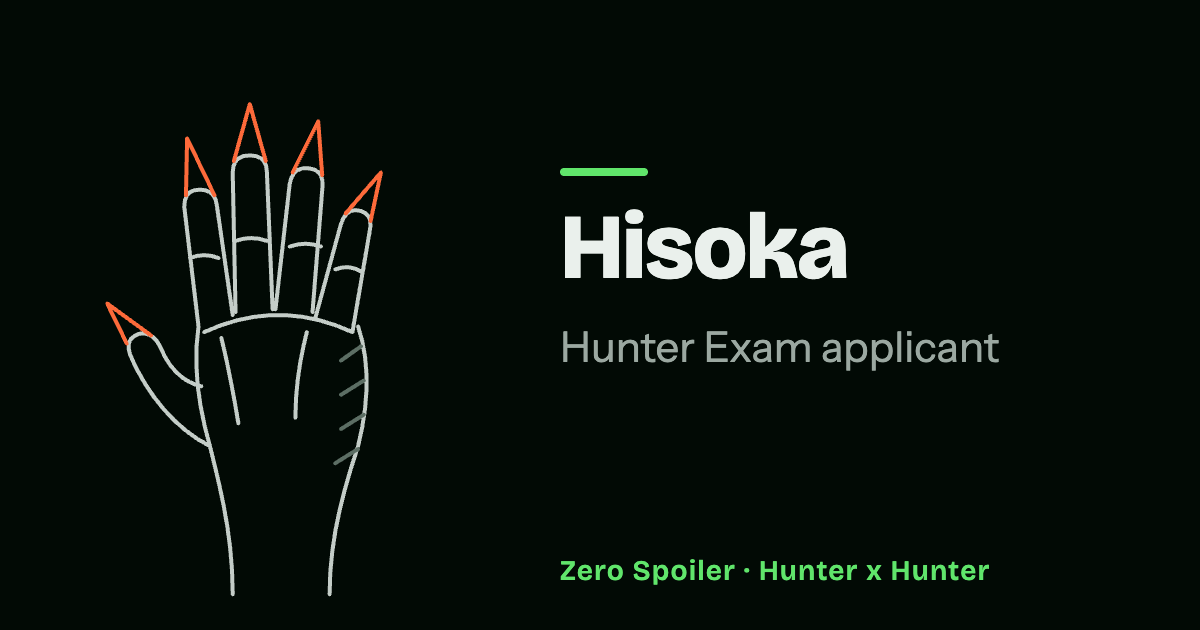
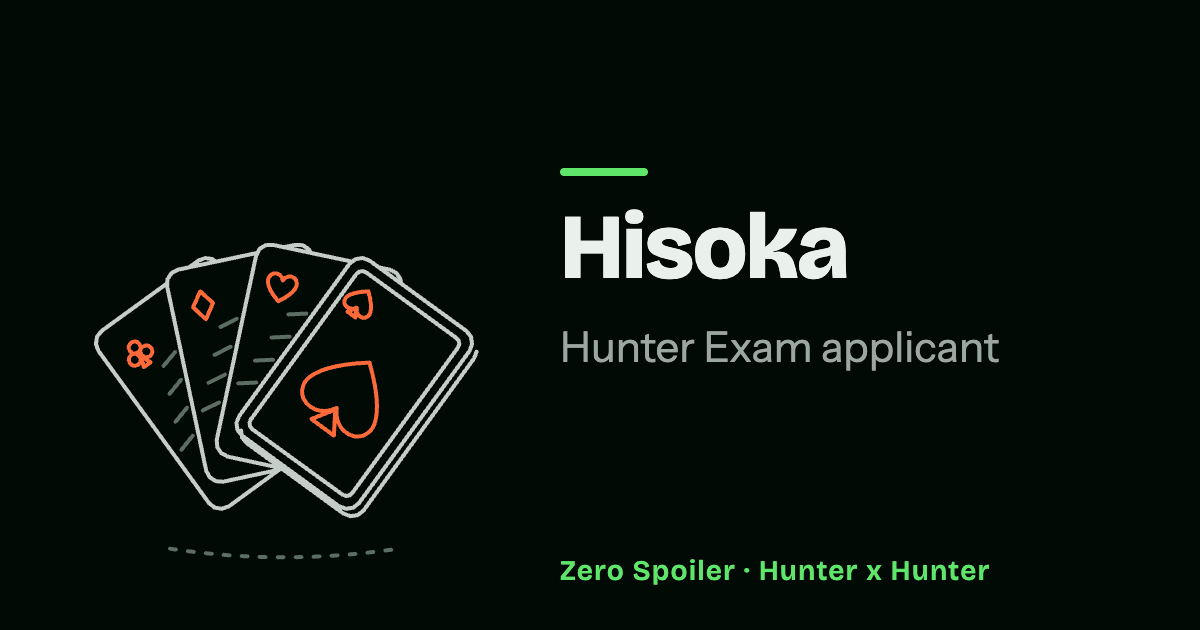
feat(hisoka): draw Hisoka as a fan of playing cards (#1199)

Changed region(s): [[0.0617, 0.1508, 0.4008, 0.9349]]

diff --git a/src/data/series/hunter-x-hunter/art/index.ts b/src/data/series/hunter-x-hunter/art/index.ts
@@ -166,6 +166,51 @@ const LEORIO_CASE: Stroke[] = [
 const LEORIO_SHADOW = shadow(78, 174, 58)
 
 /**
+ * The suits of Hisoka's four cards in the record's tint: clubs, diamonds and
+ * hearts in the corner of the three cards behind, and spades in the corner
+ * and large in the middle of the card in front.
+ */
+const HISOKA_SUITS: Stroke = {
+  d: 'M25.9 112.6 C25.2 111.7 25.4 110.4 26.4 109.7 C27.3 109 28.6 109.2 29.3 110.2 C30 111.1 29.8 112.4 28.8 113.1 C27.9 113.8 26.6 113.6 25.9 112.6 Z M25.9 116.9 C25.3 116 25.5 114.7 26.4 114 C27.3 113.3 28.7 113.5 29.3 114.5 C30 115.4 29.8 116.7 28.9 117.4 C27.9 118.1 26.6 117.9 25.9 116.9 Z M30 114 C29.3 113.1 29.5 111.7 30.4 111.1 C31.4 110.4 32.7 110.6 33.4 111.5 C34.1 112.5 33.9 113.8 32.9 114.5 C32 115.1 30.7 114.9 30 114 Z M29.8 114.4 L30.8 118.3 L33.2 116.6 Z M50.6 91.7 L55.1 95.8 L52.6 101.5 L48.1 97.3 Z M78 95.2 C74.3 90.9 73.9 88.2 74.7 86.8 C75.7 84.5 79.2 85 79.6 87.9 C81.1 85.4 84.5 86.4 84.5 88.9 C84.6 90.5 83.1 92.7 78 95.2 Z M109.6 91.7 C103.9 91.9 101.6 93.4 101.3 94.7 C100.5 96.6 103 98.7 105.5 97.4 C105 100.2 107.8 101.9 109.4 100.5 C110.5 99.8 111.2 97.2 109.6 91.7 Z M105.3 97.6 L102.3 98.8 L105.1 100.9 Z M110 116.7 C94 117.3 87.6 121.3 86.7 124.9 C84.6 130.3 91.5 136.2 98.5 132.6 C97.2 140.3 104.9 145.1 109.4 141.4 C112.6 139.4 114.4 132.1 110 116.7 Z M98 133.2 L89.6 136.5 L97.5 142.3 Z',
+  role: 'accent',
+}
+
+/**
+ * Hisoka's four playing cards fanned from one corner, each turned 24° from
+ * the next: only the part of a card the one above leaves bare is drawn. The
+ * card in front has the inner frame of its white border and, along its
+ * right and lower edges, its thickness; each card throws a hatched shade on
+ * the one behind. No pips but the suits, no lettering.
+ */
+const HISOKA_FAN: Stroke[] = [
+  {
+    d: 'M46.7 83.3 L50 80.9 L52.4 80 L54.9 80.4 L56 81.3 M78.3 154.3 L60.7 167.1 L58.2 168 L55.7 167.6 L53.7 166 L14.9 112.6 L14 110.2 L14.4 107.6 L16 105.6 L39 88.9',
+  },
+  {
+    d: 'M80 76.2 L83.9 75.4 L86.5 75.5 L88.7 76.9 L89.3 78.2 M80 153.9 L58.6 158.5 L56 158.3 L53.9 156.9 L52.7 154.6 L39 90 L39.1 87.5 L40.5 85.3 L42.8 84.1 L70.7 78.2',
+  },
+  {
+    d: 'M113.3 83.3 L117.2 84.1 L119.5 85.3 L120.9 87.5 L121 88.9 M81.7 154.3 L60.3 149.7 L58 148.5 L56.6 146.4 L56.4 143.8 L70.2 79.2 L71.3 76.9 L73.5 75.5 L76.1 75.4 L104 81.3',
+  },
+  {
+    d: 'M144 105.6 L145.6 107.6 L146 110.2 L145.1 112.6 L106.3 166 L104.3 167.6 L101.8 168 L99.3 167.1 L65.4 142.4 L63.7 140.4 L63.3 137.9 L64.3 135.4 L103 82 L105.1 80.4 L107.6 80 L110 80.9 Z',
+  },
+  {
+    d: 'M140.4 108 L141.3 109 L141.5 110.3 L141 111.5 L104 162.4 L103 163.3 L101.7 163.5 L100.5 163 L68.9 140.1 L68.1 139.1 L67.9 137.8 L68.4 136.6 L105.4 85.6 L106.4 84.8 L107.7 84.6 L108.9 85.1 Z',
+    role: 'soft',
+  },
+  {
+    d: 'M147.6 112.8 L146.7 115.2 L107.9 168.6 L105.9 170.2 L103.4 170.6 L100.9 169.7 L67 145 L65.3 143 L64.9 140.5',
+    role: 'soft',
+  },
+  HISOKA_SUITS,
+  {
+    d: 'M41.8 113 L37.7 117.9 M43.9 122.7 L39.8 127.7 M46 132.5 L41.9 137.5 M48 142.3 L44 147.3 M63.4 101.3 L57.7 104.2 M61.3 111.1 L55.6 114 M59.3 120.9 L53.5 123.8 M57.2 130.7 L51.5 133.5 M87.9 99.5 L81.5 99.8 M82 107.6 L75.6 107.9 M76.2 115.7 L69.8 116 M70.3 123.7 L63.9 124',
+    role: 'ambient',
+  },
+]
+
+/**
  * Every Hunter x Hunter line drawing, one per record, keyed by the record's
  * id, in the house style of One Piece's (`~/data/series/one-piece/art`): the
  * same box, pen and rules. The arcs, and the characters and places of the
@@ -743,41 +788,14 @@ export const DRAWINGS = {
     shadow(72, 164, 54),
   ],
 
-  // Hisoka's right hand from the back, the fingers a little spread and
-  // the long pointed nails in the record's tint: the applicant who wounds a
-  // man for bumping into him without apologizing, in episode 3 and chapter
-  // 5. No card: his cards first come out in the Milsy Wetlands, in chapter
-  // 8. No suit symbol, no face paint.
-  // Hands, not wrist bands: the wiki gives his long pointed nails and has no
-  // bands (owner: a hand may stand for him).
-  'hisoka': [
-    { d: 'M62 198 C62 178 58 162 54 146 M96 198 C96 180 100 164 106 146' },
-    { d: 'M54 146 C50 132 48 118 50 104 M106 146 C110 130 110 116 106 104' },
-    {
-      d: 'M50 104 L45 62 Q45 56 50.5 56 Q56 56 56.5 62 L62 100 M63 99 L62 50 Q62 44 68 44 Q74 44 74 50 L76 98 M77 98 L82 54 Q83 48 88.5 48.5 Q94 49 93.5 55 L90 99 M91 101 L100 68 Q102 62 107 63.5 Q111.5 65 110 71 L104 106',
-    },
-    {
-      d: 'M45.6 58 L46 38 L55.6 58 M62.4 46 L68 26 L73.6 46 M83 50 L92 32 L93.4 51 M101.6 64.4 L114 50 L110.4 67',
-      role: 'accent',
-    },
-    {
-      d: 'M54 146 C42 140 32 128 26 114 Q24 108 29.5 106.5 Q34 106 36.5 111 C40 120 46 124 51 125',
-    },
-    { d: 'M24.8 110 L18 96 L33.4 107.2', role: 'accent' },
-    { d: 'M52 106 Q78 94 104 106', role: 'soft' },
-    {
-      d: 'M47 80 q5 -2 10 0 M63 74 q5.5 -2 11 0 M82 76 q5.5 -2 11 0 M98 84 q5 -2 9.5 1',
-      role: 'soft',
-    },
-    {
-      d: 'M100 116 l7 -5 M100 128 l8 -5 M100 140 l8 -5 M98 152 l8 -5',
-      role: 'ambient',
-    },
-    {
-      d: 'M64 138 C62 126 60 116 58 108 M84 136 C84 124 86 114 88 106',
-      role: 'soft',
-    },
-  ],
+  // Hisoka's four playing cards fanned, the suits in the record's tint and
+  // the spade card in front: the applicant who wounds a man for bumping
+  // into him without apologizing, in episode 3 and chapter 5. His cards are
+  // what the Hunter Exam knows him by: he throws them in the Milsy Wetlands
+  // (episode 5, chapter 8) and builds a house of them on the airship
+  // (episode 7, chapter 13). Throwing cards is no Nen ability the story has
+  // shown yet. No lettering on the cards, no face paint.
+  'hisoka': [...HISOKA_FAN, shadow(80, 182, 40)],
 
   // Killua's skateboard, deck in the record's tint and the trucks beneath
   // it: he rides it through the exam tunnel in episode 4 and chapter 6.
@@ -1069,9 +1087,62 @@ export const DRAWINGS = {
 export type ArtId = keyof typeof DRAWINGS
 
 /**
+ * Hisoka's right hand from the back, with the long pointed nails: the
+ * wrist, the palm, the four fingers and their nails in the muted ink (the
+ * rubber he rebuilds them with), the thumb and its nail, the knuckles. The
+ * stage of his return mirrors it into his left hand, holding the fan.
+ */
+const HISOKA_REBUILT_HAND: Stroke[] = [
+  { d: 'M62 198 C62 178 58 162 54 146 M96 198 C96 180 100 164 106 146' },
+  { d: 'M54 146 C50 132 48 118 50 104 M106 146 C110 130 110 116 106 104' },
+  {
+    d: 'M50 104 L45 62 Q45 56 50.5 56 Q56 56 56.5 62 L62 100 M63 99 L62 50 Q62 44 68 44 Q74 44 74 50 L76 98 M77 98 L82 54 Q83 48 88.5 48.5 Q94 49 93.5 55 L90 99 M91 101 L100 68 Q102 62 107 63.5 Q111.5 65 110 71 L104 106',
+    role: 'ambient',
+  },
+  {
+    d: 'M45.6 58 L46 38 L55.6 58 M62.4 46 L68 26 L73.6 46 M83 50 L92 32 L93.4 51 M101.6 64.4 L114 50 L110.4 67',
+    role: 'ambient',
+  },
+  {
+    d: 'M54 146 C42 140 32 128 26 114 Q24 108 29.5 106.5 Q34 106 36.5 111 C40 120 46 124 51 125',
+  },
+  { d: 'M24.8 110 L18 96 L33.4 107.2', role: 'soft' },
+  { d: 'M52 106 Q78 94 104 106', role: 'soft' },
+]
+
+/**
+ * Hisoka's fan as his rebuilt left hand holds it: the same cards, suits and
+ * frame, with what the hand in front covers left out. No shade between the
+ * cards.
+ */
+const HISOKA_FAN_HELD: Stroke[] = [
+  {
+    d: 'M46.7 83.3 L50 80.9 L52.4 80 L54.9 80.4 L56 81.3 M68.8 161.2 L64.6 164.2 M55.8 167.7 L55.7 167.6 L53.7 166 L14.9 112.6 L14 110.2 L14.4 107.6 L16 105.6 L39 88.9',
+  },
+  {
+    d: 'M80 76.2 L83.9 75.4 L86.5 75.5 L88.7 76.9 L89.3 78.2 M56.3 158.3 L56 158.3 L53.9 156.9 L52.7 154.6 L39 90 L39.1 87.5 L40.5 85.3 L42.8 84.1 L70.7 78.2',
+  },
+  {
+    d: 'M113.3 83.3 L117.2 84.1 L119.5 85.3 L120.9 87.5 L121 88.9 M64.4 150.6 L61.3 149.9 M57.2 140.2 L70.2 79.2 L71.3 76.9 L73.5 75.5 L76.1 75.4 L104 81.3',
+  },
+  {
+    d: 'M67.6 130.8 L103 82 L105.1 80.4 L107.6 80 L110 80.9 L144 105.6 L145.6 107.6 L146 110.2 L145.1 112.6 L106.3 166 L104.3 167.6 L102.1 168 M97.4 165.7 L88.3 159.1 M73.7 148.4 L70.9 146.5',
+  },
+  {
+    d: 'M78.3 122.9 L105.4 85.6 L106.4 84.8 L107.7 84.6 L108.9 85.1 L140.4 108 L141.3 109 L141.5 110.3 L141 111.5 L105 161 M100.9 163.2 L100.5 163 L88.9 154.5 M82.7 150.1 L80.7 148.6 M73.9 143.6 L70.3 141.1 M69.1 135.6 L76.1 125.9',
+    role: 'soft',
+  },
+  {
+    d: 'M147.6 112.8 L146.7 115.2 L107.9 168.6 L105.9 170.2 L103.4 170.6 L101.3 169.8 M97.1 166.9 L88.2 160.4 M73.6 149.8 L71.1 148',
+    role: 'soft',
+  },
+  HISOKA_SUITS,
+]
+
+/**
  * The early-exam drawings that change with the story: the applicants Tonpa
- * points out who die later in the exam, and Kurapika's wooden swords, which
- * his chain replaces.
+ * points out who die later in the exam, Kurapika's wooden swords, which his
+ * chain replaces, and every later stage of Hisoka's cards, Kakin's included.
  */
 const hunterExamRedrawn: Redrawings = {
   kurapika: [
@@ -1142,6 +1213,41 @@ const hunterExamRedrawn: Redrawings = {
       ],
     },
   ],
+  hisoka: [
+    // The same fan lifted a little, and under it bands of his aura
+    // stretched like pulled gum from the cards to the ground: Bungee Gum is
+    // named, with Texture Surprise, after the Kastro match, episode 32 /
+    // chapter 55, which tells how he held his cards to the floor with it.
+    // The bands are open lines in the muted ink, no glow.
+    {
+      episode: 32,
+      chapter: 55,
+      value: [
+        ...moved(HISOKA_FAN, 'translate(0 -14)'),
+        {
+          d: 'M56.9 151.7 C58.9 163.9 57.5 167.9 57.9 169.9 C57.9 173.9 50.1 180 49.1 184 M64.9 151.7 C62.9 163.9 59.5 167.9 59.1 169.9 C59.1 173.9 62.1 180 63.1 184 M76 141 C78 158.5 79 162.5 79.4 164.5 C79.4 168.5 74 180 73 184 M84 141 C82 158.5 81 162.5 80.6 164.5 C80.6 168.5 86 180 87 184 M95.1 151.7 C97.1 163.9 100.5 167.9 100.9 169.9 C100.9 173.9 97.9 180 96.9 184 M103.1 151.7 C101.1 163.9 102.5 167.9 102.1 169.9 C102.1 173.9 109.9 180 110.9 184',
+          role: 'ambient',
+        },
+        { d: 'M14 184 H146', role: 'ambient', dashed: true },
+      ],
+    },
+    // The same fan in his left hand, seen from the back: back from the
+    // dead, he makes rubber prostheses with Texture Surprise for the four
+    // fingers the blast took (chapters 355, 357). The rebuilt fingers and
+    // their nails are drawn in the muted ink, an imitation over the real
+    // palm; the wiki does not say which digit was spared, so that is a
+    // frame check. He dies and returns in the same chapter, so the return
+    // is the only Kakin stage.
+    {
+      episode: 148,
+      source: 'chapter',
+      chapter: 357,
+      value: [
+        ...HISOKA_FAN_HELD,
+        ...moved(HISOKA_REBUILT_HAND, 'matrix(-0.56 0 0 0.56 115.7 106)'),
+      ],
+    },
+  ],
 }
 
 /** Returning records whose drawing changes in the Election (#913). */
@@ -1172,22 +1278,13 @@ const KAKIN = { episode: 148, source: 'chapter' } as const
 const KORTOPI_VASE = YORKNEW_CITY_DRAWINGS.kortopi.slice(0, 1)
 
 /**
- * Hisoka's right hand with the four fingers and their nails in the muted
- * ink (strokes 2 and 3) and without the creases of the fingers (stroke 7):
- * the stage of his return mirrors it into the left hand he rebuilds.
+ * Returning records whose drawing changes in Kakin, chapters 340–420 (#1154,
+ * #1156, #1158). Hisoka's chapter 357 stage lives with his other stages, in
+ * `hunterExamRedrawn`.
  */
-const HISOKA_REBUILT: Stroke[] = DRAWINGS.hisoka.flatMap((stroke, index) => {
-  if (index === 7) {
-    return []
-  }
-
-  return [index === 2 || index === 3 ? { ...stroke, role: 'ambient' } : stroke]
-})
-
-/** Returning records whose drawing changes in Kakin, chapters 340–420 (#1154, #1156, #1158). */
 const kakinReturningRedrawn: Redrawings = {
   'bonolenov': [
-    // The same roll of bandage made small, and above it Hisoka's hand in
+    // The same roll of bandage made small, and above it Hisoka's cards in
     // the muted ink, a likeness: the "Hisoka" the Mafia met was Bonolenov
     // transformed with Metamorphosen, and he takes another form again,
     // chapter 405.
@@ -1201,7 +1298,7 @@ const kakinReturningRedrawn: Redrawings = {
             ...stroke,
             role: 'ambient' as const,
           })),
-          'translate(70 -4) scale(0.62)',
+          'translate(64 -4) scale(0.62)',
         ),
       ],
     },
@@ -1293,16 +1390,6 @@ const kakinReturningRedrawn: Redrawings = {
         },
       ],
     },
-  ],
-  'hisoka': [
-    // His left hand, mirrored from the right: back from the dead, he makes
-    // rubber prostheses with Texture Surprise for the four fingers the
-    // blast took (chapters 355, 357). The rebuilt fingers and their nails
-    // are drawn in the muted ink, an imitation over the real palm, and the
-    // thumb keeps its nail in tint; the wiki does not say which digit was
-    // spared, so that is a frame check. He dies and returns in the same
-    // chapter, so the return is the only stage.
-    { ...KAKIN, chapter: 357, value: moved(HISOKA_REBUILT, MIRRORED) },
   ],
   'shalnark': [
     // The same laptop, shut, on the ground under an empty swing: Hisoka

diff --git a/docs/architecture.md b/docs/architecture.md
@@ -324,7 +324,7 @@ checks this block.
 | Characters        | 290                                                   |
 | Arcs, places      | 7 · 43                                                |
 | Saga modules      | 7                                                     |
-| Line drawings     | 340, one per record, plus 93 redrawings of 81 records |
+| Line drawings     | 340, one per record, plus 94 redrawings of 81 records |
 | Chronicle stories | 994, for 289 characters                               |
 
 ### `game-of-thrones`
